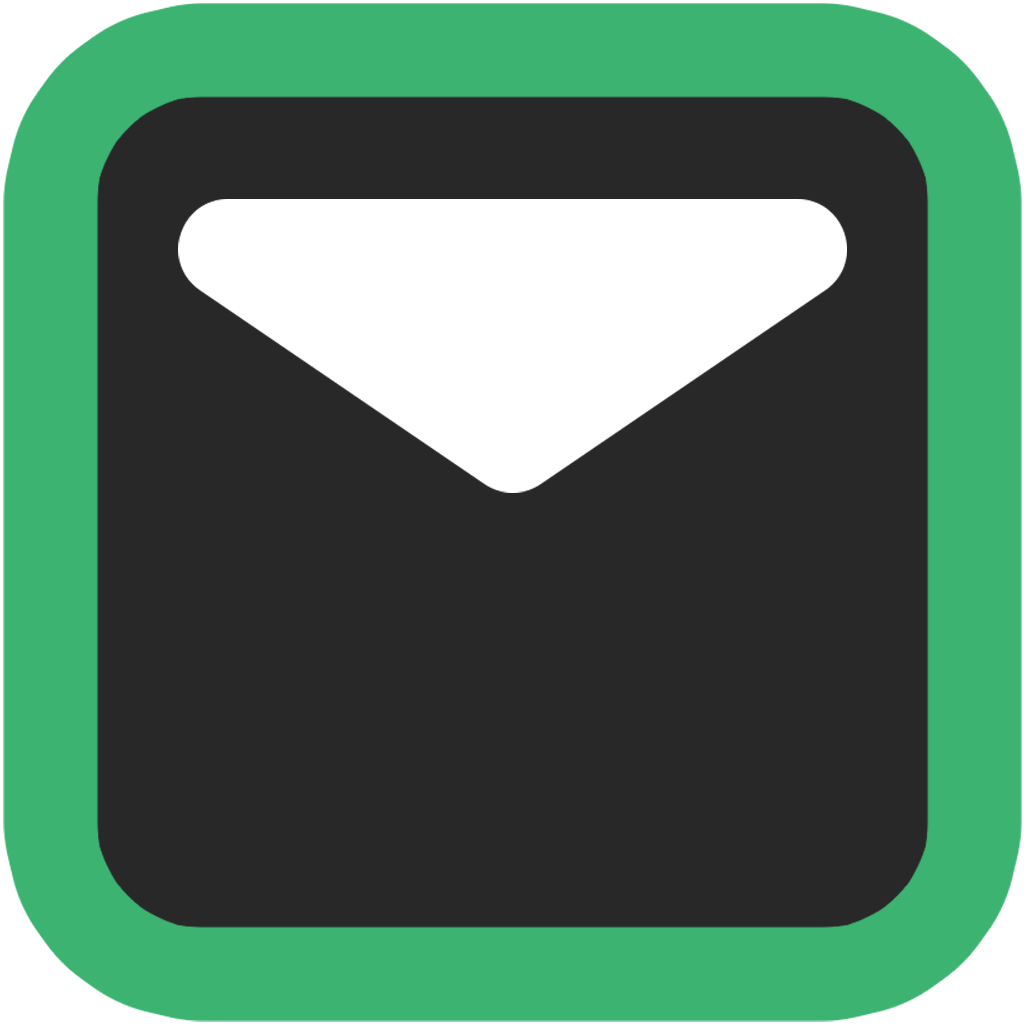
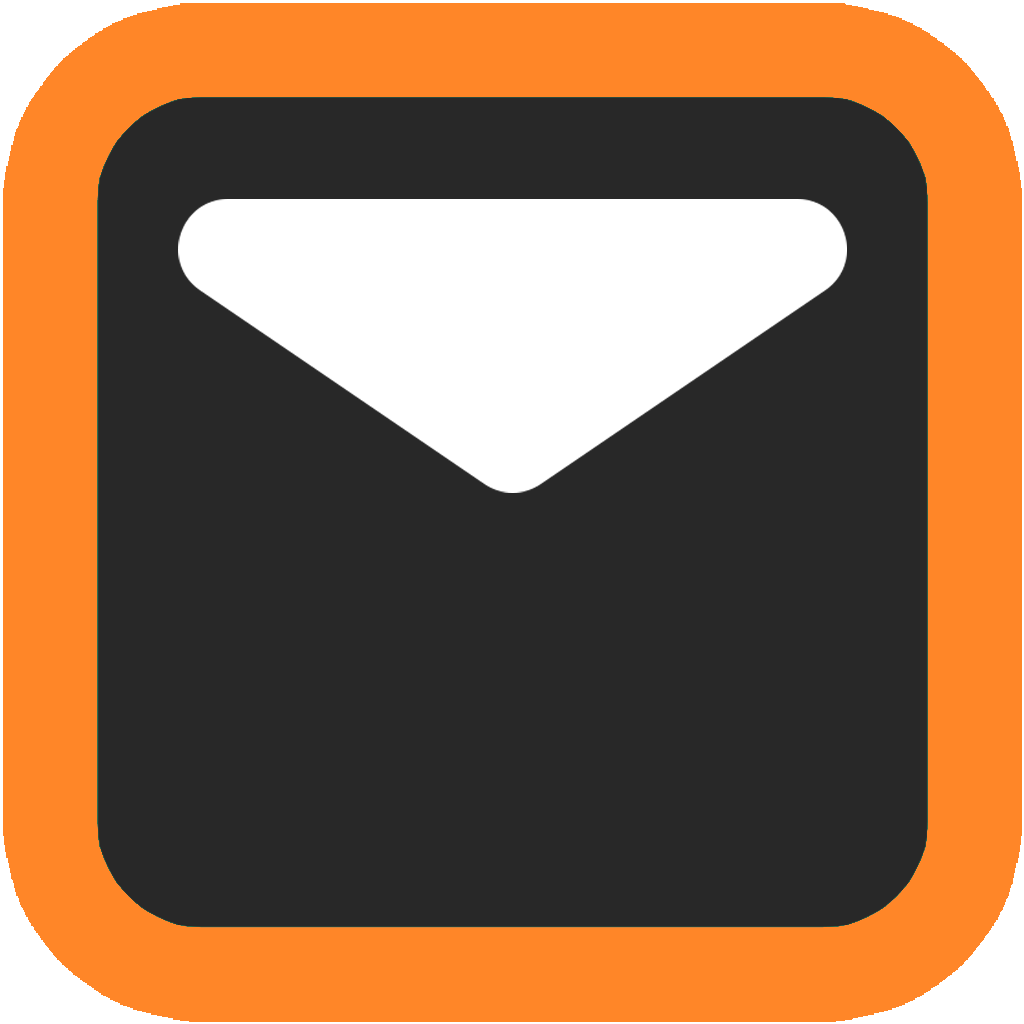
color change

diff --git a/static/style.css b/static/style.css
@@ -16,7 +16,7 @@ a::after {
     content: '';
     width: 100%;
     height: 2px;
-    background: lightgreen;
+    background: saddlebrown;
     transform: scale(0, 1);
     transform-origin: center top;
     transition: transform .2s;
@@ -27,7 +27,7 @@ a:hover::after {
 }
 
 .table {
-    background-color: lightgreen;
+    background-color: burlywood;
     margin: 10px;
     border-radius: 10px;
     color: black;
@@ -40,7 +40,7 @@ a:hover::after {
 }
 
 .navbar {
-    background-color: mediumseagreen;
+    background-color: #ff8628;
     width: 100%;
     padding: 10px;
     position: fixed;
@@ -56,14 +56,14 @@ a:hover::after {
 .info-submit {
     border-radius: 5px;
     border-style: solid;
-    border-color: mediumseagreen;
+    border-color: #ff8628;
     padding: 20px;
 }
 
 .btn {
     border-radius: 10px;
     color: white;
-    background-color: mediumseagreen;
+    background-color: #ff8628;
 }
 
 .danger {
@@ -75,7 +75,7 @@ a:hover::after {
 }
 
 .dl_link {
-    background: mediumseagreen;
+    background: #ff8628;
     padding: 5px;
     border-radius: 5px;
     color: inherit;
@@ -83,7 +83,7 @@ a:hover::after {
 
 .line {
     height: 5px;
-    background-color: mediumseagreen;
+    background-color: #ff8628;
 }
 
 .icon {

diff --git a/templates/base.html b/templates/base.html
@@ -65,7 +65,7 @@
     <div style="margin:50px;margin-top:100px">
         {% block content %}
         {% endblock content %}
-        <hr style="height:5px; background-color:mediumseagreen;">
+        <hr style="height:5px; background-color:saddlebrown;">
         <id="down">
         <h3>
             <a class="under" href="/">
